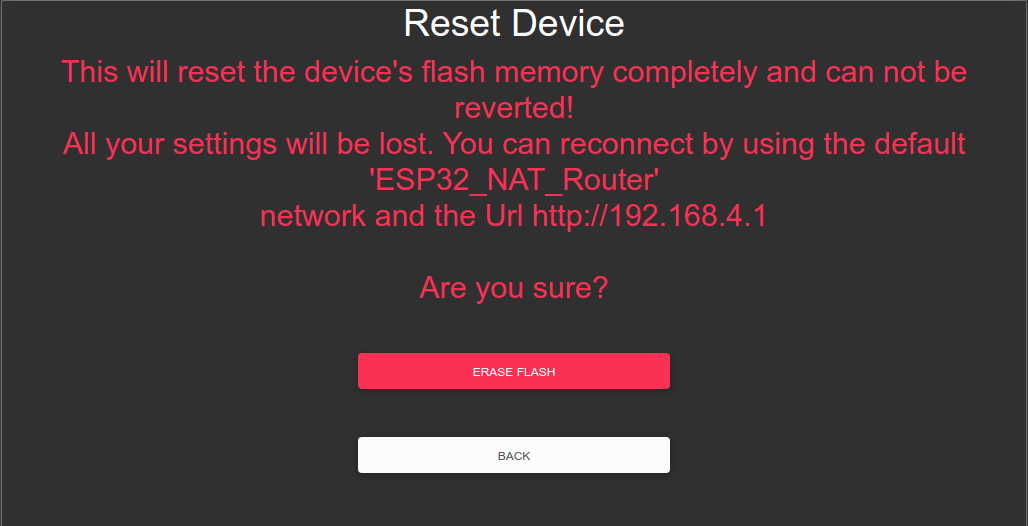
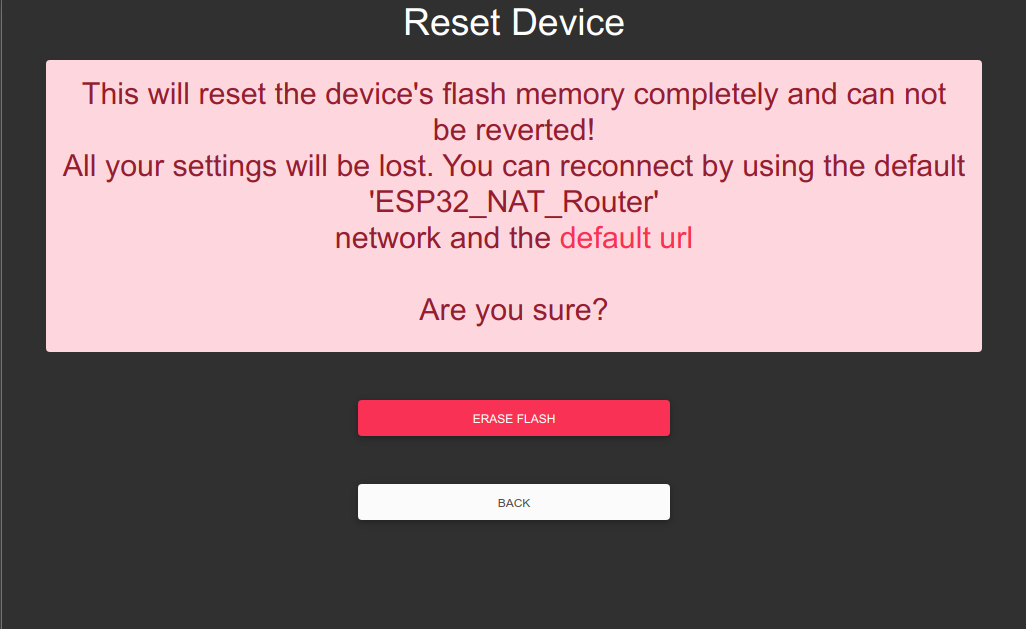
new release: 2.1.0

diff --git a/src/pages/config.html b/src/pages/config.html
@@ -1,128 +1,1 @@
-<!DOCTYPE html>
-<html lang="en">
-
-<head>
-    <link href="favicon.ico" rel="shortcut icon" type="image/x-icon" />
-    <meta charset="utf-8" />
-    <meta content="IE=edge" http-equiv="X-UA-Compatible" />
-    <meta content="width=device-width, initial-scale=1" name="viewport" />
-    <link href="styles-9ee3c4491d35b3c1d830fa9da31c7861.css" rel="stylesheet" />
-    <title>Configuration</title>
-</head>
-
-<body>
-    <div class="container">
-        <div class="row text-center p-3">
-            <h1>ESP32 NAT Router Config <button class="btn btn-light float-end" data-bs-target="#information"
-                    data-bs-toggle="modal" title="About" type="button">?</button></h1>
-        </div>
-        <form action="apply" method="POST"> <input name="func" type="hidden" value="config" />
-            <h2>AP Settings (the new network)</h2> <span class="text-info"><span id="clients">%d</span> client(s)
-                connected</span>
-            <div class="form-group row"> <label class="col-3" for="ap_ssid">SSID</label>
-                <div class="col-9"> <input class="form-control" id="ap_ssid" maxlength="32" name="ap_ssid"
-                        placeholder="SSID of the new network" type="text" value="%s" /> </div>
-            </div>
-            <div class="form-group row mt-2"> <label class="col-3" for="ap_password">Password</label>
-                <div class="col-9">
-                    <div class="input-group"> <input class="form-control col-9" id="ap_password" maxlength="64"
-                            name="ap_password" placeholder="Password of the new network" type="password" value="%s" />
-                        <span class="input-group-text password" style="cursor: pointer;" title="show password">☀</span>
-                    </div>
-                </div>
-            </div>
-            <div class="form-group row col-9 offset-3"> <small class="form-text text-muted">Password less than 8 chars =
-                    open</small> </div>
-            <h2 class="mt-2">STA Settings (uplink WiFi network)</h2> <span class="text-%s" id="sta"><span
-                    id="symbol">%s</span> (signal strength: <span id="db">%s</span> db)</span>
-            <div class="form-group row"> <label class="col-3" for="ssid">SSID</label>
-                <div class="col-9"> <input class="form-control" id="ssid" maxlength="32" name="ssid"
-                        placeholder="SSID of the existing network" type="text" value="%s" /> </div>
-            </div>
-            <div class="form-group row mt-2"> <label class="col-3" for="password">Password</label>
-                <div class="col-9">
-                    <div class="input-group"> <input class="form-control" id="password" maxlength="64" name="password"
-                            placeholder="Password of the existing network" type="password" value="%s" /> <span
-                            class="input-group-text password" style="cursor: pointer;" title="show password">☀</span>
-                    </div>
-                </div> <input class="form-control" name="x" type="hidden" value="x" />
-            </div>
-            <div class="form-group row col-4 offset-4 mt-4"> <input class="btn btn-primary" type="submit"
-                    value="Apply changes" /> </div>
-        </form>
-        <h2 class="mt-2">Device Management</h2>
-        <form action="scan" method="GET">
-            <div class="form-group row col-4 offset-4 mt-2"> <input class="btn btn-light" type="submit"
-                    value="Wifi Scan" /> </div>
-        </form>
-        <form action="apply" method="POST">
-            <div class="form-group row col-4 offset-4 mt-2"> <input name="func" type="hidden" value="reboot" /> <input
-                    class="btn btn-light" type="submit" value="reboot" /> </div>
-        </form>
-        <form action="lock" method="GET">
-            <div class="form-group row col-4 offset-4 mt-2"> <input class="btn btn-light" type="submit"
-                    value="Lock Interface" /> </div>
-        </form>
-        <form action="unlock" method="GET" style="display: %s;">
-            <div class="form-group row col-4 offset-4 mt-2"> <input class="btn btn-light" type="submit"
-                    value="Relock Interface" /> </div>
-        </form>
-        <form action="advanced" method="GET">
-            <div class="form-group row col-4 offset-4 mt-5"> <input class="btn btn-warning" type="submit"
-                    value="Advanced" /> </div>
-        </form>
-    </div>
-    <div aria-hidden="true" class="modal fade" id="information" tabindex="-1">
-        <div class="modal-dialog">
-            <div class="modal-content">
-                <div class="modal-header">
-                    <h5 class="modal-title">About</h5> <button aria-label="Close" class="btn-close"
-                        data-bs-dismiss="modal" type="button"></button>
-                </div>
-                <div class="modal-body">
-                    <table class="table table-striped">
-                        <tbody>
-                            <tr>
-                                <td colspan="2">ESP32 NAT Router is a simple micro controller based range extender. This
-                                    can also be used to open a second (guest) Wifi. <p>This is a spare time project. If
-                                        you have any questions or issues, feel free to ask at the Github project page.
-                                    </p>
-                                </td>
-                            </tr>
-                            <tr>
-                                <td>Version</td>
-                                <td id="version">2.1.0_beta</td>
-                            </tr>
-                            <tr>
-                                <td>Hash</td>
-                                <td id="hash">3186724</td>
-                            </tr>
-                            <tr>
-                                <td>Release date</td>
-                                <td id="date">21.03.2022</td>
-                            </tr>
-                            <tr>
-                                <td class="text-center" colspan="2"><a class="btn btn-link"
-                                        href="https://github.com/dchristl/esp32_nat_router_extended"
-                                        target="_blank">Project page at GitHub</a></td>
-                            </tr>
-                            <tr>
-                                <td class="text-center" colspan="2"><a class="btn btn-link"
-                                        href="https://www.buymeacoffee.com/dchristl" target="_blank">Support my work,
-                                        just buy me coffee</a> </td>
-                            </tr>
-                        </tbody>
-                    </table>
-                </div>
-                <div class="modal-footer"> <button class="btn btn-light" data-bs-dismiss="modal"
-                        type="button">Close</button> </div>
-            </div>
-        </div>
-    </div>
-    <script src="jquery.js"></script>
-    <script src="bootstrap.js"></script>
-    <script>     $('.password').on('mousedown mouseup mouseout touchstart touchend', function mouseState(e) { var field = $(this).parent().find('input'); if (e.type == "mousedown" || e.type == "touchstart") { field.get(0).type = 'text'; } else { field.get(0).type = 'password'; } });</script>
-    <script>     (function poll() { $.ajax({ url: "/api", type: "GET", success: function (data) { console.log(data); $('#clients').text(data.clients); $('#db').text(data.strength); $('#sta').removeClass(); $('#sta').addClass('text-' + data.text); $('#symbol').html(data.symbol); }, dataType: "json", complete: setTimeout(function () { poll(); }, 3000), timeout: 3000 }) })();</script>
-</body>
-
-</html>
+<!DOCTYPE html><html lang=en> <head><link href=favicon.ico rel="shortcut icon" type=image/x-icon><meta charset=utf-8><meta content="IE=edge" http-equiv=X-UA-Compatible><meta content="width=device-width, initial-scale=1" name=viewport><link href=styles-9ee3c4491d35b3c1d830fa9da31c7861.css rel=stylesheet><title>Configuration</title></head> <body> <div class=container> <div class="row text-center p-3"> <h1>ESP32 NAT Router Config <button class="btn btn-light float-end" data-bs-target=#information data-bs-toggle=modal title=About type=button>?</button></h1> </div> <form action=apply method=POST> <input name=func type=hidden value=config> <h2>AP Settings (the new network)</h2> <span class=text-info><span id=clients>%d</span> client(s) connected</span> <div class="form-group row"> <label class=col-3 for=ap_ssid>SSID</label> <div class=col-9> <input class=form-control id=ap_ssid maxlength=32 name=ap_ssid placeholder="SSID of the new network" type=text value=%s> </div> </div> <div class="form-group row mt-2"> <label class=col-3 for=ap_password>Password</label> <div class=col-9> <div class=input-group> <input class="form-control col-9" id=ap_password maxlength=64 name=ap_password placeholder="Password of the new network" type=password value=%s> <span class="input-group-text password" style="cursor: pointer;" title="show password">☀</span> </div> </div> </div> <div class="form-group row col-9 offset-3"> <small class="form-text text-muted">Password less than 8 chars = open</small> </div> <h2 class=mt-2>STA Settings (uplink WiFi network)</h2> <span class=text-%s id=sta><span id=symbol>%s</span> (signal strength: <span id=db>%s</span> db)</span> <div class="form-group row"> <label class=col-3 for=ssid>SSID</label> <div class=col-9> <input class=form-control id=ssid maxlength=32 name=ssid placeholder="SSID of the existing network" type=text value=%s> </div> </div> <div class="form-group row mt-2"> <label class=col-3 for=password>Password</label> <div class=col-9> <div class=input-group> <input class=form-control id=password maxlength=64 name=password placeholder="Password of the existing network" type=password value=%s> <span class="input-group-text password" style="cursor: pointer;" title="show password">☀</span> </div> </div> <input class=form-control name=x type=hidden value=x> </div> <div class="form-group row col-4 offset-4 mt-4"> <input class="btn btn-primary" type=submit value="Apply changes"> </div> </form> <h2 class=mt-2>Device Management</h2> <form action=scan method=GET> <div class="form-group row col-4 offset-4 mt-2"> <input class="btn btn-light" type=submit value="Wifi Scan"> </div> </form> <form action=apply method=POST> <div class="form-group row col-4 offset-4 mt-2"> <input name=func type=hidden value=reboot> <input class="btn btn-light" type=submit value=reboot> </div> </form> <form action=lock method=GET> <div class="form-group row col-4 offset-4 mt-2"> <input class="btn btn-light" type=submit value="Lock Interface"> </div> </form> <form action=unlock method=GET style="display: %s;"> <div class="form-group row col-4 offset-4 mt-2"> <input class="btn btn-light" type=submit value="Relock Interface"> </div> </form> <form action=advanced method=GET> <div class="form-group row col-4 offset-4 mt-5"> <input class="btn btn-warning" type=submit value=Advanced> </div> </form> </div> <div aria-hidden=true class="modal fade" id=information tabindex=-1> <div class=modal-dialog> <div class=modal-content> <div class=modal-header> <h5 class=modal-title>About</h5> <button aria-label=Close class=btn-close data-bs-dismiss=modal type=button></button> </div> <div class=modal-body> <table class="table table-striped"> <tbody> <tr> <td colspan=2>ESP32 NAT Router is a simple micro controller based range extender. This can also be used to open a second (guest) Wifi. <p>This is a spare time project. If you have any questions or issues, feel free to ask at the Github project page. </p> </td> </tr> <tr> <td>Version</td> <td id=version>2.1.0_beta</td> </tr> <tr> <td>Hash</td> <td id=hash>3186724</td> </tr> <tr> <td>Release date</td> <td id=date>21.03.2022</td> </tr> <tr> <td class=text-center colspan=2><a class="btn btn-link" href=https://github.com/dchristl/esp32_nat_router_extended target=_blank>Project page at GitHub</a></td> </tr> <tr> <td class=text-center colspan=2><a class="btn btn-link" href=https://www.buymeacoffee.com/dchristl target=_blank>Support my work, just buy me coffee</a> </td> </tr> </tbody> </table> </div> <div class=modal-footer> <button class="btn btn-light" data-bs-dismiss=modal type=button>Close</button> </div> </div> </div> </div> <script src=jquery.js></script> <script src=bootstrap.js></script> <script>     $('.password').on('mousedown mouseup mouseout touchstart touchend', function mouseState(e) { var field = $(this).parent().find('input'); if (e.type == "mousedown" || e.type == "touchstart") { field.get(0).type = 'text'; } else { field.get(0).type = 'password'; } });</script> <script>     (function poll() { $.ajax({ url: "/api", type: "GET", success: function (data) { console.log(data); $('#clients').text(data.clients); $('#db').text(data.strength); $('#sta').removeClass(); $('#sta').addClass('text-' + data.text); $('#symbol').html(data.symbol); }, dataType: "json", complete: setTimeout(function () { poll(); }, 3000), timeout: 3000 }) })();</script> </body> </html>

diff --git a/src/pages/reset.html b/src/pages/reset.html
@@ -1,40 +1,1 @@
-<!DOCTYPE html>
-<html lang=en>
-
-<head>
-
-    <head>
-        <link rel="shortcut icon" type=image/x-icon href=favicon.ico>
-        <meta charset=utf-8>
-        <meta http-equiv=X-UA-Compatible content="IE=edge">
-        <meta name=viewport content="width=device-width, initial-scale=1">
-        <link rel=stylesheet href=styles-9ee3c4491d35b3c1d830fa9da31c7861.css>
-        <title>Reset</title>
-    </head>
-</head>
-
-<body>
-    <div class=container>
-        <div class="row text-center">
-            <h1>Reset Device</h1>
-        </div>
-
-        <div class="alert alert-danger mt-2 text-center" role="alert">
-            <h2>This will reset the device's flash memory completely and can not be
-                reverted!<br> All your settings will be lost. You can reconnect by using the default
-                <br>'ESP32_NAT_Router'<br>network and the <a class="text-danger" href=http://192.168.4.1>default url</a>
-                <br><br>
-                Are
-                you sure?
-            </h2>
-        </div>
-
-        <form action=apply method=POST class=mt-5>
-            <div class="form-group row col-4 offset-4 "> <input type=hidden name=func value=erase> <input type=submit
-                    value="Erase flash" class="btn btn-danger"> </div>
-        </form>
-        <div class="form-group row col-4 offset-4 mt-5"> <a href=/advanced class="btn btn-light">Back</a> </div>
-    </div>
-</body>
-
-</html>
+<!DOCTYPE html><html lang=en> <head><head><link rel="shortcut icon" type=image/x-icon href=favicon.ico><meta charset=utf-8><meta http-equiv=X-UA-Compatible content="IE=edge"><meta name=viewport content="width=device-width, initial-scale=1"><link rel=stylesheet href=styles-9ee3c4491d35b3c1d830fa9da31c7861.css><title>Reset</title></head> </head> <body> <div class=container> <div class="row text-center"> <h1>Reset Device</h1> </div> <div class="alert alert-danger mt-2 text-center" role=alert> <h2>This will reset the device's flash memory completely and can not be reverted!<br> All your settings will be lost. You can reconnect by using the default <br>'ESP32_NAT_Router'<br>network and the <a class=text-danger href=http://192.168.4.1>default url</a> <br><br> Are you sure? </h2> </div> <form action=apply method=POST class=mt-5> <div class="form-group row col-4 offset-4 "> <input type=hidden name=func value=erase> <input type=submit value="Erase flash" class="btn btn-danger"> </div> </form> <div class="form-group row col-4 offset-4 mt-5"> <a href=/advanced class="btn btn-light">Back</a> </div> </div> </body> </html>

diff --git a/src/pages/apply.html b/src/pages/apply.html
@@ -1,31 +1,1 @@
-<!DOCTYPE html>
-<html lang=en>
-
-<head>
-
-    <head>
-        <link rel="shortcut icon" type=image/x-icon href=favicon.ico>
-        <meta charset=utf-8>
-        <meta http-equiv=X-UA-Compatible content="IE=edge">
-        <meta name=viewport content="width=device-width, initial-scale=1">
-        <link rel=stylesheet href=styles-9ee3c4491d35b3c1d830fa9da31c7861.css>
-        <meta http-equiv=refresh content="3; url=/">
-        <title>Apply changes</title>
-    </head>
-</head>
-
-<body>
-    <div class=container>
-        <div class="row text-center">
-            <h1>ESP32 NAT Router Config</h1>
-        </div>
-        <div class="alert alert-warning mt-2 text-center" role="alert">
-            <h2>The new settings have been applied and the device will be restarted.<br>Wait until
-                the config page is reloaded...</h2>
-        </div>
-
-
-    </div>
-</body>
-
-</html>
+<!DOCTYPE html><html lang=en> <head><head><link rel="shortcut icon" type=image/x-icon href=favicon.ico><meta charset=utf-8><meta http-equiv=X-UA-Compatible content="IE=edge"><meta name=viewport content="width=device-width, initial-scale=1"><link rel=stylesheet href=styles-9ee3c4491d35b3c1d830fa9da31c7861.css><meta http-equiv=refresh content="3; url=/"><title>Apply changes</title></head> </head> <body> <div class=container> <div class="row text-center"> <h1>ESP32 NAT Router Config</h1> </div> <div class="alert alert-warning mt-2 text-center" role=alert> <h2>The new settings have been applied and the device will be restarted.<br>Wait until the config page is reloaded...</h2> </div> </div> </body> </html>
